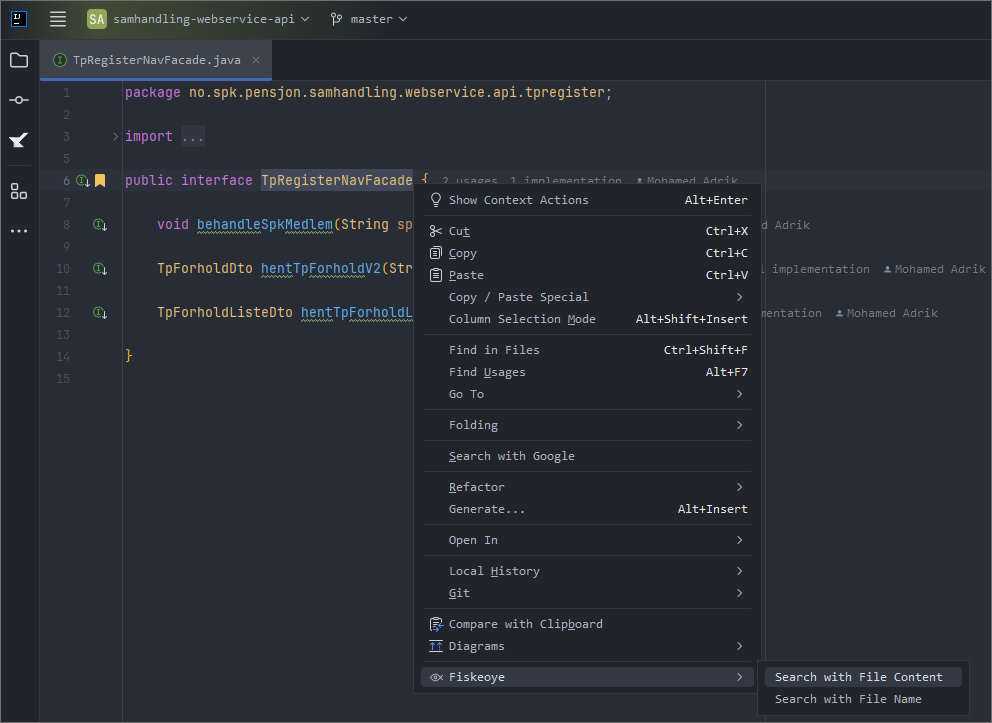
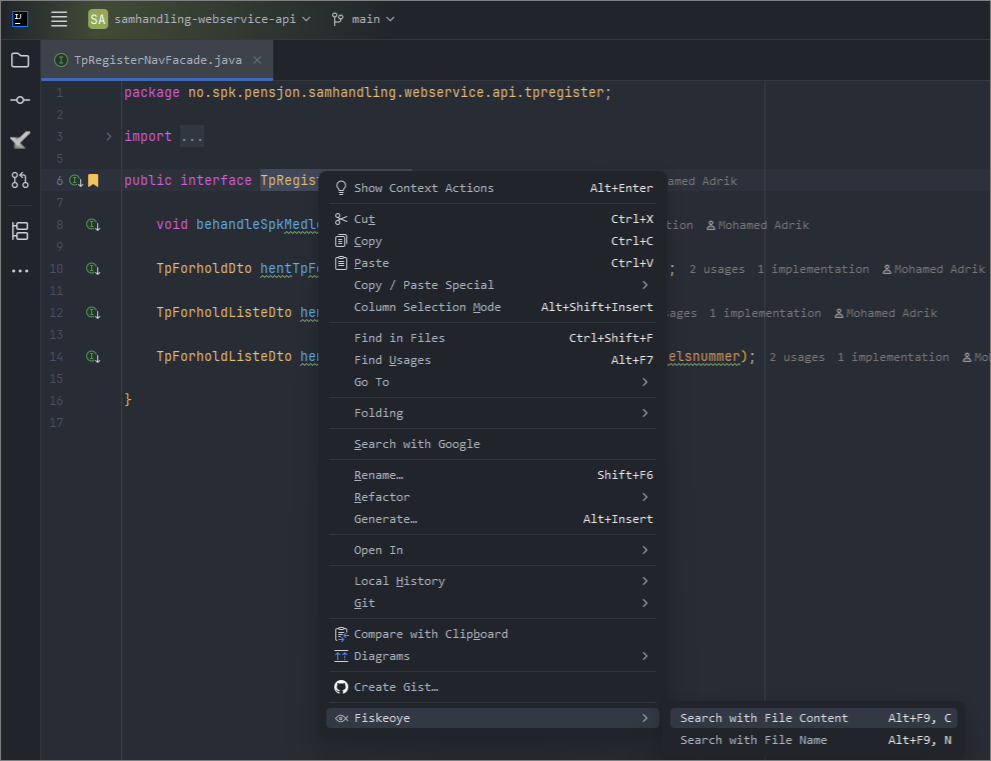
Handle broken url's (#21)
* Handle broken url's

* Add icon(s) for github and bitbucket

* Remove unnecessary string formatting

* Add keyboard shortcut(s)

* Update image

diff --git a/src/main/kotlin/no/spk/fiskeoye/plugin/ui/FiskeoyePanel.kt b/src/main/kotlin/no/spk/fiskeoye/plugin/ui/FiskeoyePanel.kt
@@ -18,6 +18,8 @@ import no.spk.fiskeoye.plugin.actions.window.OpenInBrowserAction
 import no.spk.fiskeoye.plugin.actions.window.ScrollToEndAction
 import no.spk.fiskeoye.plugin.actions.window.ScrollToTopAction
 import no.spk.fiskeoye.plugin.actions.window.SettingAction
+import no.spk.fiskeoye.plugin.component.LabelIcon
+import no.spk.fiskeoye.plugin.component.LabelIconRenderer
 import no.spk.fiskeoye.plugin.icons.FiskeoyeIcons
 import no.spk.fiskeoye.plugin.icons.FiskeoyeIcons.CopyLink
 import no.spk.fiskeoye.plugin.icons.FiskeoyeIcons.CopyLinkForJira
@@ -59,6 +61,7 @@ internal abstract class FiskeoyePanel : SimpleToolWindowPanel(true, true), DumbA
             add(ScrollToTopAction(mainTable))
             add(ScrollToEndAction(mainTable))
         }
+
     }
 
     protected fun buildTable(): JBTable {
@@ -71,6 +74,7 @@ internal abstract class FiskeoyePanel : SimpleToolWindowPanel(true, true), DumbA
             intercellSpacing = Dimension()
             componentPopupMenu = buildPopupMenu(this)
             font = buildFont()
+            setDefaultRenderer(LabelIcon::class.java, LabelIconRenderer())
             setSelectionMode(ListSelectionModel.SINGLE_INTERVAL_SELECTION)
             setShowGrid(false)
             setDefaultEditor(Object::class.java, null)
@@ -94,14 +98,19 @@ internal abstract class FiskeoyePanel : SimpleToolWindowPanel(true, true), DumbA
             this.add(copyLinkForMarkdown)
             val copyLinkForJira = buildCopyLinkForJira(table)
             this.add(copyLinkForJira)
+            val nothingHere = JBMenuItem("Nothing here")
+            this.add(nothingHere)
 
             this.addPopupMenuListener(object : PopupMenuListenerAdapter() {
                 override fun popupMenuWillBecomeVisible(e: PopupMenuEvent?) {
-                    copyLink.isVisible = !table.isEmpty
-                    copyLinkForMarkdown.isVisible = !table.isEmpty
-                    copyLinkForJira.isVisible = !table.isEmpty
+                    val tableIsValid = (!table.isEmpty && table.model.getValueAt(table.selectedRow, 1) != null)
+                    copyLink.isVisible = tableIsValid
+                    copyLinkForMarkdown.isVisible = tableIsValid
+                    copyLinkForJira.isVisible = tableIsValid
+                    nothingHere.isVisible = !tableIsValid
                 }
             })
+
         }
     }
 

diff --git a/src/main/kotlin/no/spk/fiskeoye/plugin/util/FiskeoyeUtil.kt b/src/main/kotlin/no/spk/fiskeoye/plugin/util/FiskeoyeUtil.kt
@@ -10,7 +10,11 @@ import com.intellij.openapi.wm.ToolWindow
 import com.intellij.openapi.wm.ToolWindowManager
 import com.intellij.openapi.wm.WindowManager
 import com.intellij.ui.table.JBTable
+import no.spk.fiskeoye.plugin.component.LabelIcon
 import no.spk.fiskeoye.plugin.enum.ScrollDirection
+import no.spk.fiskeoye.plugin.icons.FiskeoyeIcons.Bitbucket
+import no.spk.fiskeoye.plugin.icons.FiskeoyeIcons.Github
+import no.spk.fiskeoye.plugin.icons.FiskeoyeIcons.Warning
 import no.spk.fiskeoye.plugin.settings.FiskeoyeState
 import no.spk.fiskeoye.plugin.ui.FileContentPanel
 import no.spk.fiskeoye.plugin.ui.FilenamePanel
@@ -62,6 +66,19 @@ internal fun getProject(): Project {
 internal fun getService() = ApplicationManager.getApplication().getService(FiskeoyeState::class.java)
 
 internal fun makeUrl(spec: String) = runCatching { URI(spec).toURL() }.getOrNull()
+
+internal fun makeLabelIcon(url: String, html: String): LabelIcon {
+    val urlString = url.lowercase().trim()
+    return if (urlString.startsWith("http")) {
+        if (urlString.startsWith("https://github")) {
+            LabelIcon(html, Github)
+        } else {
+            LabelIcon(html, Bitbucket)
+        }
+    } else {
+        LabelIcon(html, Warning, "NB! Url is broken")
+    }
+}
 
 internal fun openUrlWithBrowser(url: URL) = openUrlWithBrowser(url.toURI())
 
@@ -141,7 +158,7 @@ internal fun getHeaderText(include: String, isCaseSensitive: Boolean, isSearchIn
 internal fun getDefaultModel(header: String): DefaultTableModel {
     return object : DefaultTableModel(arrayOf(header, "url", "text"), 0) {
         override fun getColumnClass(column: Int) = when (column) {
-            0 -> String::class.java
+            0 -> LabelIcon::class.java
             1 -> URL::class.java
             2 -> String::class.java
             else -> super.getColumnClass(column)

diff --git a/src/main/kotlin/no/spk/fiskeoye/plugin/listeners/button/FileContentSearchListener.kt b/src/main/kotlin/no/spk/fiskeoye/plugin/listeners/button/FileContentSearchListener.kt
@@ -15,6 +15,7 @@ import no.spk.fiskeoye.plugin.util.getInvalidString
 import no.spk.fiskeoye.plugin.util.getService
 import no.spk.fiskeoye.plugin.util.getTruckMessage
 import no.spk.fiskeoye.plugin.util.hideColumns
+import no.spk.fiskeoye.plugin.util.makeLabelIcon
 import no.spk.fiskeoye.plugin.util.makeUrl
 import org.jsoup.nodes.Element
 import java.util.concurrent.CompletableFuture.supplyAsync
@@ -63,7 +64,7 @@ internal class FileContentSearchListener(private val fileContentPanel: FileConte
                         val html = "<html>$file:$line:$code</html>"
                         val url = file.attr("href")
                         val text = "${file.text()}:${line.text()}"
-                        model.addRow(arrayOf(html, makeUrl(url), text))
+                        model.addRow(arrayOf(makeLabelIcon(url, html), makeUrl(url), text))
                         count++
                     }
                 }

diff --git a/src/main/kotlin/no/spk/fiskeoye/plugin/listeners/button/FilenameSearchListener.kt b/src/main/kotlin/no/spk/fiskeoye/plugin/listeners/button/FilenameSearchListener.kt
@@ -15,6 +15,7 @@ import no.spk.fiskeoye.plugin.util.getInvalidString
 import no.spk.fiskeoye.plugin.util.getService
 import no.spk.fiskeoye.plugin.util.getTruckMessage
 import no.spk.fiskeoye.plugin.util.hideColumns
+import no.spk.fiskeoye.plugin.util.makeLabelIcon
 import no.spk.fiskeoye.plugin.util.makeUrl
 import java.util.concurrent.CompletableFuture.supplyAsync
 
@@ -54,7 +55,7 @@ internal class FilenameSearchListener(private val filenamePanel: FilenamePanel) 
                         val html = "<html>${element}</html>"
                         val url = element.attr("href")
                         val text = element.text()
-                        model.addRow(arrayOf(html, makeUrl(url), text))
+                        model.addRow(arrayOf(makeLabelIcon(url, html), makeUrl(url), text))
                         count++
                     }
                 }

diff --git a/src/main/kotlin/no/spk/fiskeoye/plugin/component/LabelIconRenderer.kt b/src/main/kotlin/no/spk/fiskeoye/plugin/component/LabelIconRenderer.kt
@@ -1,0 +1,28 @@
+package no.spk.fiskeoye.plugin.component
+
+import org.jdesktop.swingx.renderer.DefaultTableRenderer
+import java.awt.Component
+import javax.swing.JLabel
+import javax.swing.JTable
+
+
+internal class LabelIconRenderer() : DefaultTableRenderer() {
+
+    override fun getTableCellRendererComponent(
+        table: JTable?,
+        value: Any?,
+        isSelected: Boolean,
+        hasFocus: Boolean,
+        row: Int,
+        column: Int
+    ): Component? {
+        return (super.getTableCellRendererComponent(table, value, isSelected, hasFocus, row, column) as JLabel).apply {
+            if (value is LabelIcon) {
+                setIcon(value.icon)
+                text = value.text
+                toolTipText = value.message
+            }
+        }
+    }
+
+}

diff --git a/src/main/kotlin/no/spk/fiskeoye/plugin/icons/FiskeoyeIcons.kt b/src/main/kotlin/no/spk/fiskeoye/plugin/icons/FiskeoyeIcons.kt
@@ -56,4 +56,14 @@ internal object FiskeoyeIcons {
 
     @JvmField
     val Settings = IconLoader.getIcon("/icons/settings.svg", javaClass)
+
+    @JvmField
+    val Warning = IconLoader.getIcon("/icons/warning.svg", javaClass)
+
+    @JvmField
+    val Bitbucket = IconLoader.getIcon("/icons/bitbucket.svg", javaClass)
+
+    @JvmField
+    val Github = IconLoader.getIcon("/icons/github.svg", javaClass)
+
 }

diff --git a/src/main/kotlin/no/spk/fiskeoye/plugin/component/LabelIcon.kt b/src/main/kotlin/no/spk/fiskeoye/plugin/component/LabelIcon.kt
@@ -1,0 +1,5 @@
+package no.spk.fiskeoye.plugin.component
+
+import javax.swing.Icon
+
+internal data class LabelIcon(val text: String, val icon: Icon? = null, val message: String? = null)

diff --git a/README.md b/README.md
@@ -57,6 +57,11 @@ This will result in the fiskeoye window being open (Shortcut `ALT` + `F10`), pre
 
 Double-click item in the list will result in default browser being open with the result.
 
+## Contributing
+Pull requests are welcome. For major changes, please open an issue first to discuss what you would like to change.
+
+This project is governed by the [SPK Open Source and Community Code of Conduct](https://github.com/statens-pensjonskasse/offentlig). Please make sure you read it.
+
 ## License
 
 [MIT](https://choosealicense.com/licenses/mit/)
